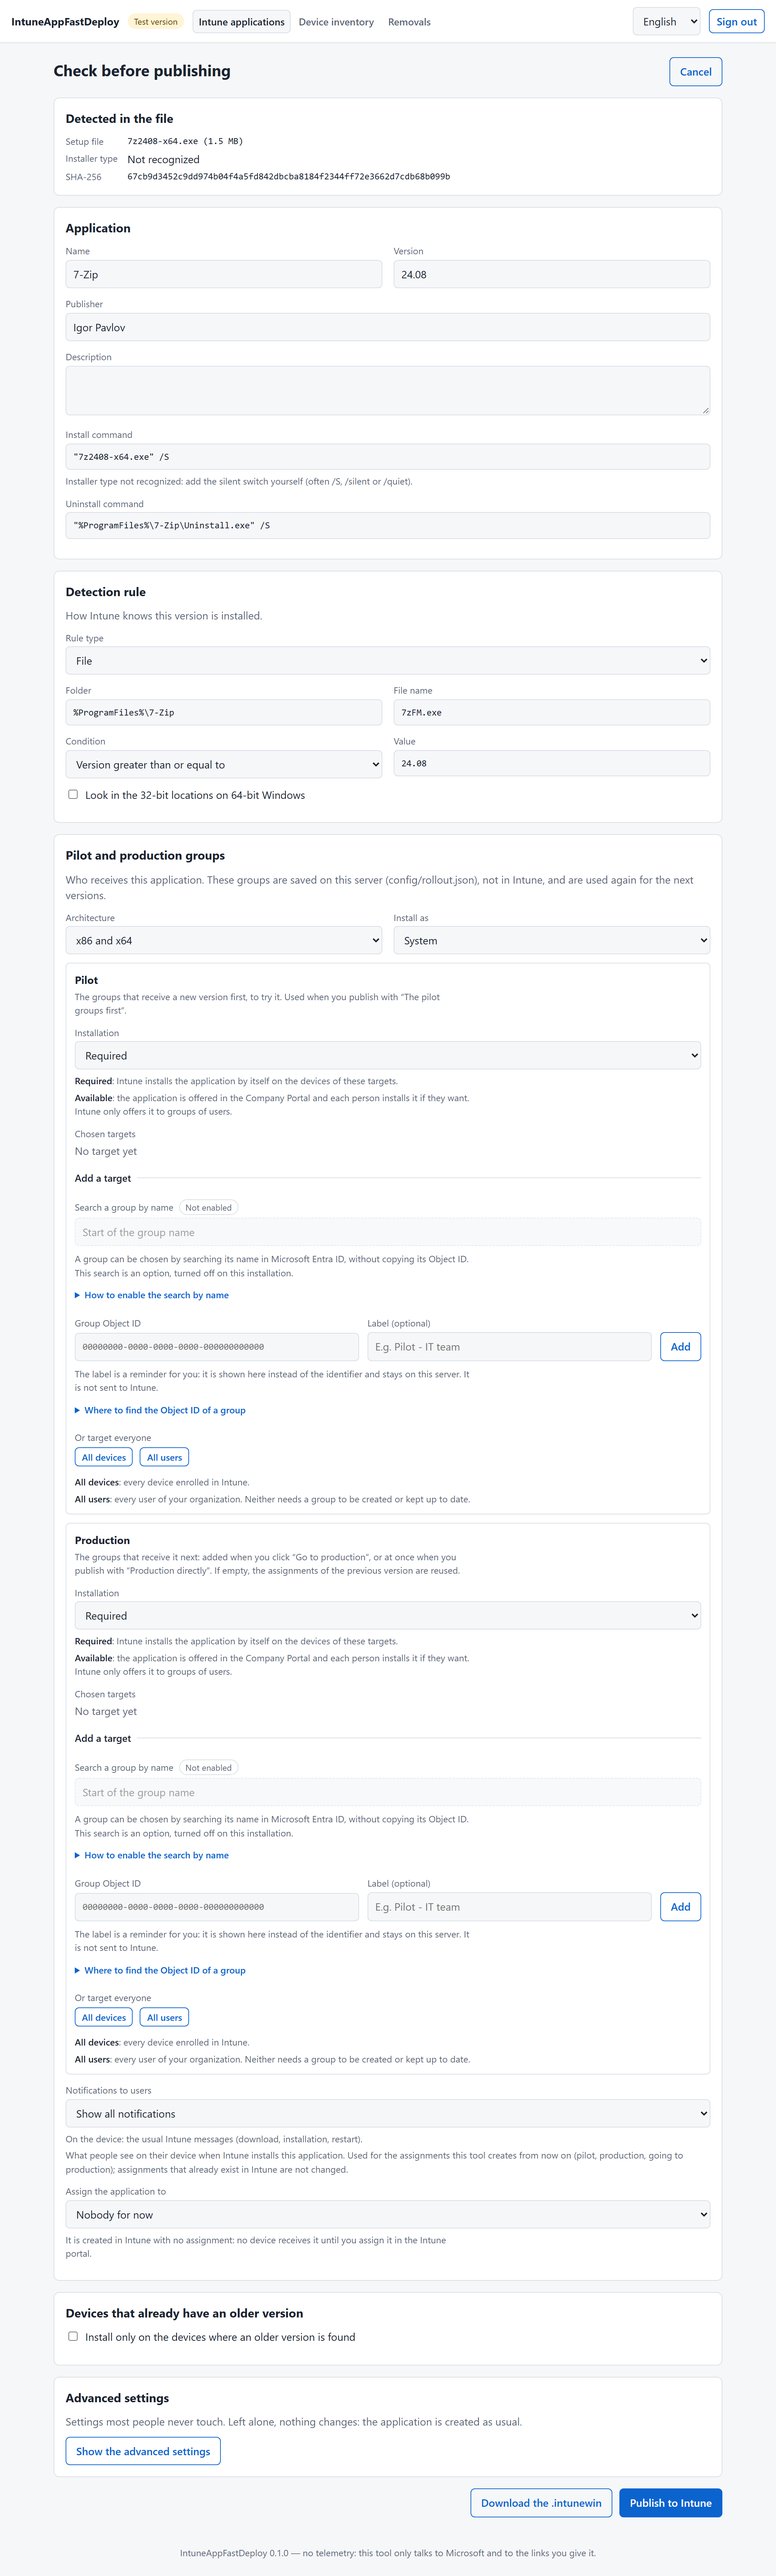
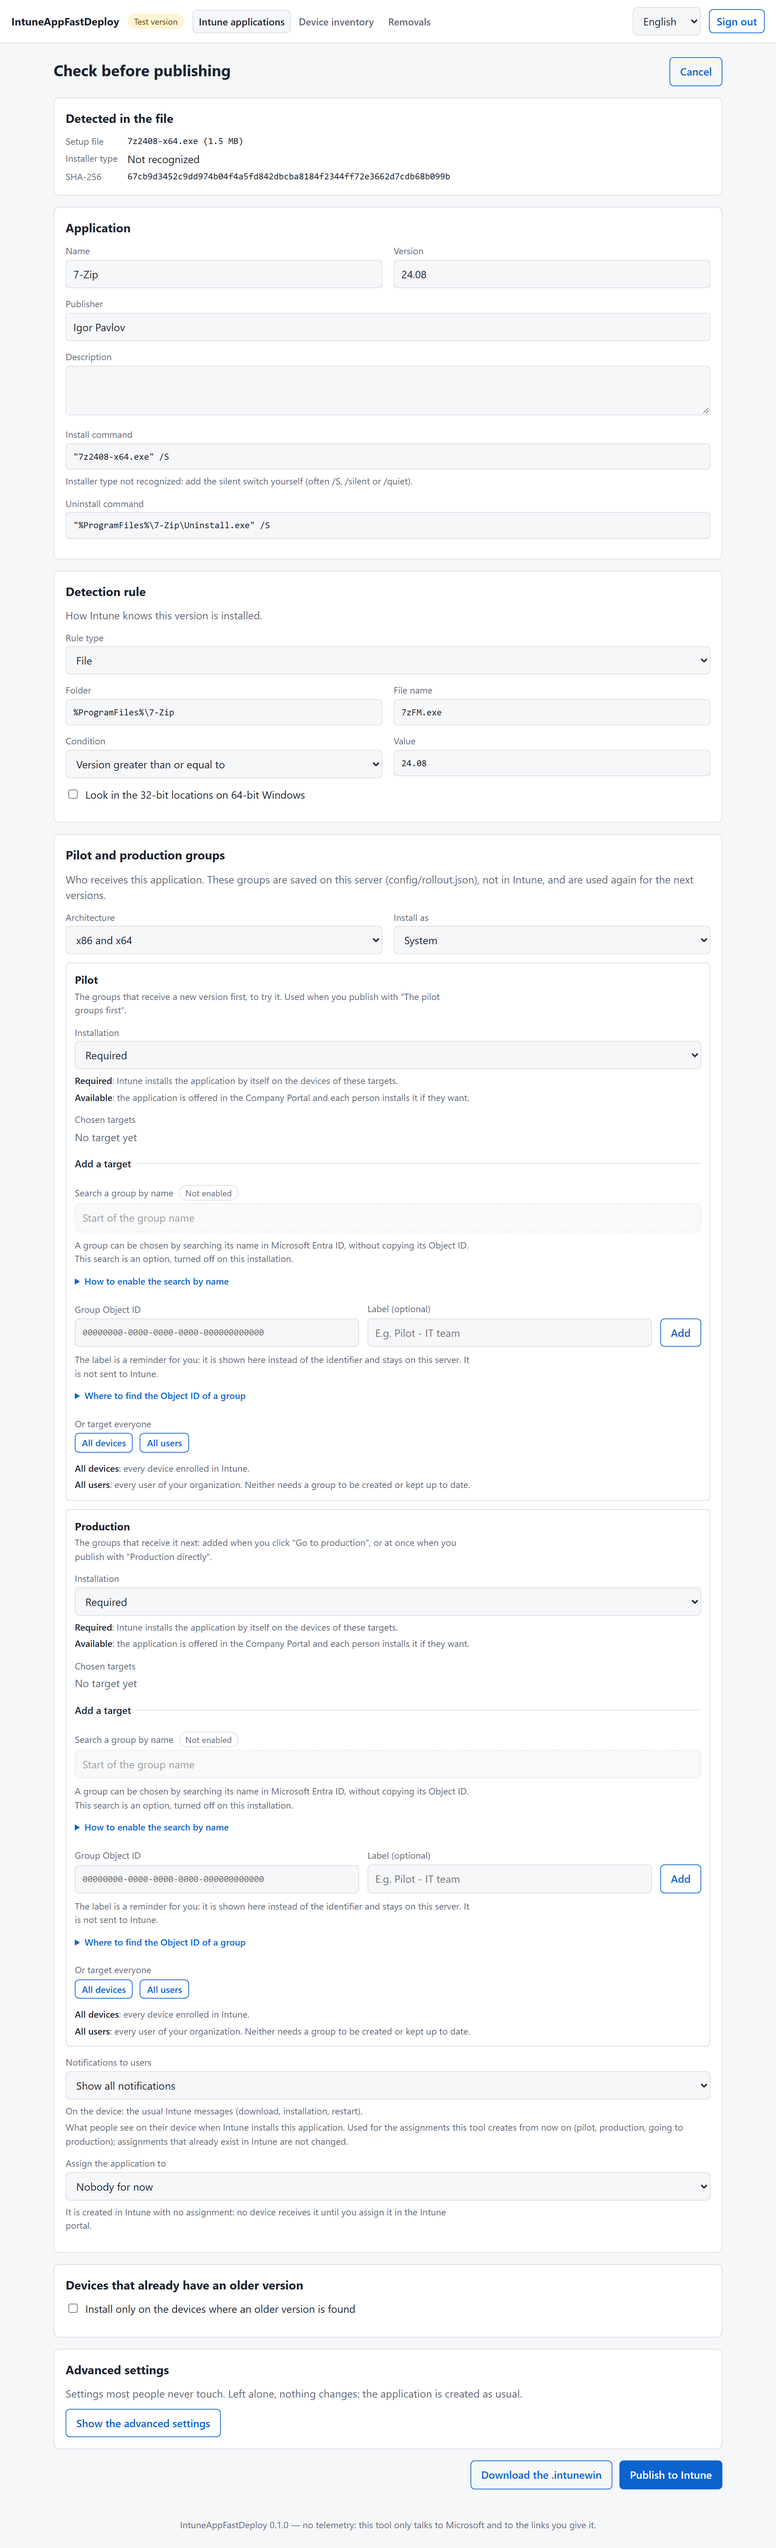
fix: address the review of the group guidance
- "Available" no longer claims that Intune only offers an application
  to groups of users: Microsoft's documentation says Win32 apps can be
  assigned as Available to user or device groups.
- "Production directly" says what the code does: the production groups,
  and the pilot groups if there are any.
- A new application no longer mentions a previous version under its
  production groups.
- Group search: a keystroke makes earlier answers stale at once, not
  only when its own request starts.
- The status line announces removals and repeats a sentence a screen
  reader would otherwise skip; Enter that confirms an input method
  composition does not add a group.
- Tests: placeholders and markup of every text match in both languages;
  a group name with an apostrophe is searched as typed.
- Screenshot script: the guide is found by its own class.

diff --git a/src/iafd/static/app.js b/src/iafd/static/app.js
@@ -346,8 +346,9 @@ function groupSearch(uid, add) {
   let request = 0;
   query.addEventListener("input", () => {
     clearTimeout(timer);
+    // What is typed now makes every answer still on its way out of date.
+    const mine = ++request;
     timer = setTimeout(async () => {
-      const mine = ++request;
       results.replaceChildren(h("span", { class: "muted" }, t("groups.searching")));
       try {
         const found = (await api("GET", `/api/groups?q=${encodeURIComponent(query.value)}`)).groups;
@@ -385,6 +386,11 @@ function stageEditor(title, hint, stage, options = {}) {
   const chips = h("div", { class: "chips", role: "group", tabIndex: -1, "aria-labelledby": `${uid}-chosen` });
   const message = h("div", { role: "alert", id: `${uid}-error` });
   const status = h("p", { class: "ge-status", role: "status" });
+  // Emptied first, filled a frame later: a screen reader then reads the same sentence twice in a row.
+  const say = (text) => {
+    status.textContent = "";
+    requestAnimationFrame(() => { status.textContent = text; });
+  };
   const draw = () => {
     chips.replaceChildren(
       ...(state.targets.length
@@ -401,8 +407,8 @@ function stageEditor(title, hint, stage, options = {}) {
   };
   // The removed chip had the focus: hand it to its neighbour, or to the list when it is empty.
   const remove = (index) => {
-    state.targets.splice(index, 1);
-    status.textContent = "";
+    const [removed] = state.targets.splice(index, 1);
+    say(t("groups.removed", { name: removed.name || targetLabel(removed) }));
     draw();
     const buttons = chips.querySelectorAll("button");
     (buttons[Math.min(index, buttons.length - 1)] || chips).focus();
@@ -410,16 +416,16 @@ function stageEditor(title, hint, stage, options = {}) {
   // Returns false when the target is refused, so that what was typed is kept.
   const add = (target) => {
     message.replaceChildren();
-    status.textContent = "";
     const key = target.type === "group" ? target.id.toLowerCase() : target.type;
     if (target.type === "group" && !/^[0-9a-f]{8}(-[0-9a-f]{4}){3}-[0-9a-f]{12}$/i.test(target.id)) {
       message.replaceChildren(h("div", { class: "notice error" }, t("error.bad_group_id")));
+      status.textContent = "";
       return false;
     }
     const known = state.targets.some((item) => (item.type === "group" ? item.id.toLowerCase() : item.type) === key);
     if (!known) state.targets.push(target);
     draw();
-    status.textContent = t(known ? "groups.already" : "groups.added", { name: target.name || targetLabel(target) });
+    say(t(known ? "groups.already" : "groups.added", { name: target.name || targetLabel(target) }));
     return true;
   };
   const intent = select([["required", t("intent.required")], ["available", t("intent.available")]], state.intent, {
@@ -438,7 +444,7 @@ function stageEditor(title, hint, stage, options = {}) {
   };
   for (const control of [groupId, groupName]) {
     control.addEventListener("keydown", (event) => {
-      if (event.key !== "Enter") return;
+      if (event.key !== "Enter" || event.isComposing) return;
       event.preventDefault();
       addManual();
     });
@@ -977,7 +983,7 @@ function showReview(job, appId) {
     const architecture = select([["any", t("arch.any")], ["x64", "x64"], ["x86", "x86"], ["arm64", "ARM64"]], form.architecture);
     const runAs = select([["system", t("run_as.system")], ["user", t("run_as.user")]], form.run_as);
     const pilot = stageEditor(t("rollout.pilot"), t("rollout.pilot_hint"), rollout.pilot);
-    const prod = stageEditor(t("rollout.prod"), t("rollout.prod_hint"), rollout.prod);
+    const prod = stageEditor(t("rollout.prod"), t("rollout.prod_hint_new"), rollout.prod);
     const target = select([["none", t("rollout.to_none")], ["pilot", t("rollout.to_pilot")], ["prod", t("rollout.to_prod")]], "none");
     const notifications = notifySelect(rollout.notifications);
     options = h(

diff --git a/docs/screenshots/make.js b/docs/screenshots/make.js
@@ -50,7 +50,7 @@ const PILOT = { en: "Pilot - IT team", fr: "Pilote - équipe informatique" }[lan
   const pilot = page.locator(".stage").nth(0);
 
   // 14. Choosing groups: the search by name is announced where it would be, with how to enable it.
-  const guide = pilot.locator("details summary").first();
+  const guide = pilot.locator(".ge-off details summary");
   await guide.click();
   await page.mouse.move(0, 0);
   await page.evaluate(() => document.activeElement && document.activeElement.blur());

diff --git a/tests/test_group_picker.py b/tests/test_group_picker.py
@@ -58,6 +58,17 @@ def test_config_says_the_search_is_on_and_groups_are_found_by_the_start_of_their
         assert client.get("/api/groups", params={"q": "zzz"}).json()["groups"] == []
 
 
+def test_a_name_with_an_apostrophe_is_searched_as_typed():
+    app = build(group_picker=True)
+    app.state.intune.directory["55555555-5555-5555-5555-000000000099"] = "L'atelier"
+    with TestClient(app) as client:
+        client.headers["X-IAFD"] = "1"
+        found = client.get("/api/groups", params={"q": "l'at"}).json()["groups"]
+        assert [group["name"] for group in found] == ["L'atelier"]
+        # A quote cannot end the filter and add a condition of its own.
+        assert client.get("/api/groups", params={"q": "x') or ('"}).json()["groups"] == []
+
+
 def test_the_option_adds_exactly_one_read_only_permission():
     assert permission() == "GroupMember.Read.All"
 

diff --git a/tests/test_locales.py b/tests/test_locales.py
@@ -35,6 +35,17 @@ def test_every_used_key_is_translated_everywhere():
         assert not missing, f"{code}: {missing}"
 
 
+def test_placeholders_and_markup_match_in_every_language():
+    """A text takes the same {values} everywhere, and its `code` and **labels** are closed."""
+    reference = LOCALES["en"]
+    for code, texts in LOCALES.items():
+        for key, text in texts.items():
+            assert text.count("`") % 2 == 0, f"{code}: {key}"
+            assert text.count("**") % 2 == 0, f"{code}: {key}"
+            wanted = sorted(re.findall(r"\{[a-z_]+\}", reference.get(key, text)))
+            assert sorted(re.findall(r"\{[a-z_]+\}", text)) == wanted, f"{code}: {key}"
+
+
 def test_all_languages_have_the_same_keys():
     reference = set(LOCALES["en"])
     for code, texts in LOCALES.items():

diff --git a/README.fr.md b/README.fr.md
@@ -273,7 +273,7 @@ Ouvrez une application (cliquez sur son nom) pour configurer, application par ap
 Pour chacun, vous choisissez comment Intune installe l'application :
 
 - *Obligatoire* : Intune l'installe de lui-même sur les postes des cibles.
-- *Disponible* : elle est proposée dans le Portail d'entreprise et chacun l'installe s'il le souhaite. Intune ne propose une application qu'à des groupes d'utilisateurs.
+- *Disponible* : elle est proposée dans le Portail d'entreprise et chacun l'installe s'il le souhaite.
 
 Puis vous ajoutez des cibles :
 
@@ -290,7 +290,7 @@ Au moment de publier une nouvelle version, vous choisissez qui la reçoit :
 | Choix | Qui reçoit la nouvelle version |
 |---|---|
 | *Les groupes pilotes d'abord* | Seulement les groupes pilotes. **Passer en production**, sur la page de l'application, ajoute ensuite les groupes de production. |
-| *La production directement* | Les groupes pilotes et les groupes de production, dès la publication. Sans groupe de production configuré, les affectations de la version précédente sont reprises. |
+| *La production directement* | Les groupes de production, et les groupes pilotes s'il y en a, dès la publication. Sans groupe de production configuré, les affectations de la version précédente sont reprises. |
 | *Personne pour l'instant* | Personne : l'application est créée dans Intune sans affectation, jusqu'à ce que vous l'affectiez dans le portail Intune. |
 
 Pendant la phase pilote, la page de l'application affiche le badge **Pilote** et le bouton **Passer en production**.

diff --git a/README.md b/README.md
@@ -271,7 +271,7 @@ Open an application (click its name) to configure, per application:
 For each one you choose how Intune installs the application:
 
 - *Required*: Intune installs it by itself on the devices of the targets.
-- *Available*: it is offered in the Company Portal and each person installs it if they want. Intune only offers an application to groups of users.
+- *Available*: it is offered in the Company Portal and each person installs it if they want.
 
 Then you add targets:
 
@@ -288,7 +288,7 @@ When you publish a new version you choose who receives it:
 | Choice | Who receives the new version |
 |---|---|
 | *The pilot groups first* | Only the pilot groups. **Go to production**, on the application page, then adds the production groups. |
-| *Production directly* | The pilot groups and the production groups, as soon as it is published. With no production group configured, the assignments of the previous version are reused. |
+| *Production directly* | The production groups, and the pilot groups if there are any, as soon as it is published. With no production group configured, the assignments of the previous version are reused. |
 | *Nobody for now* | Nobody: the application is created in Intune with no assignment, until you assign it in the Intune portal. |
 
 During the pilot phase the application page shows the **Pilot** badge and the **Go to production** button.
